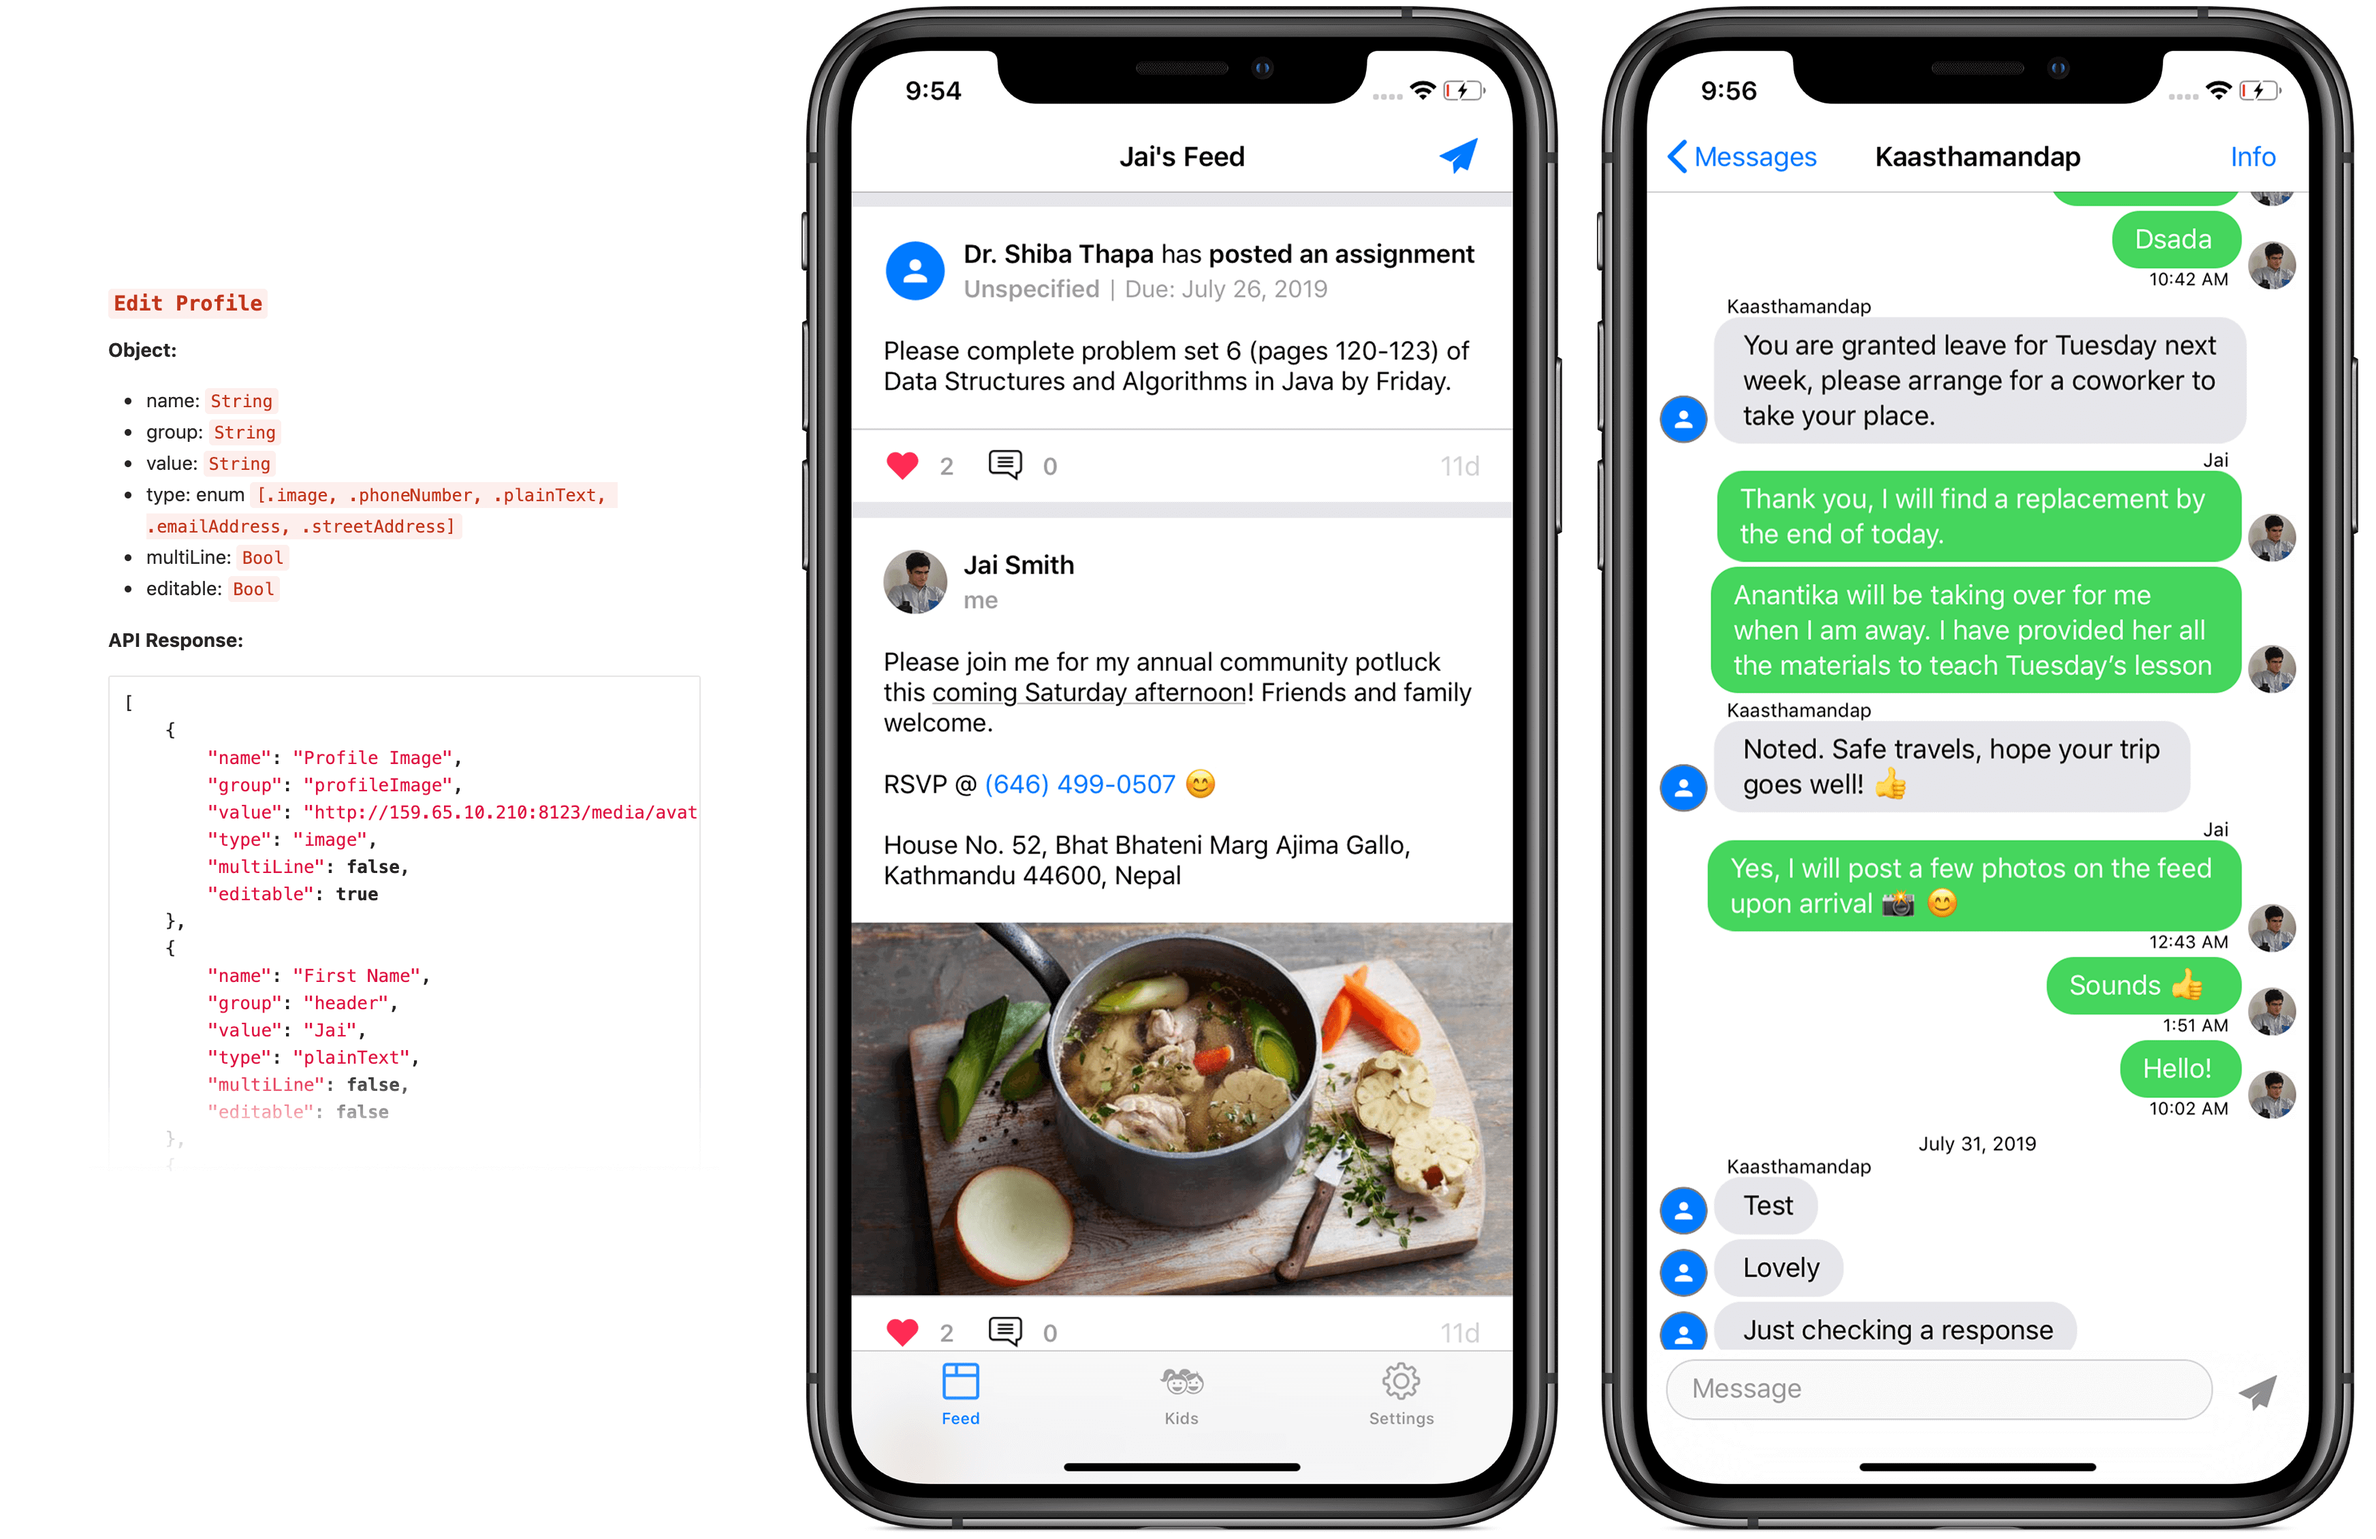
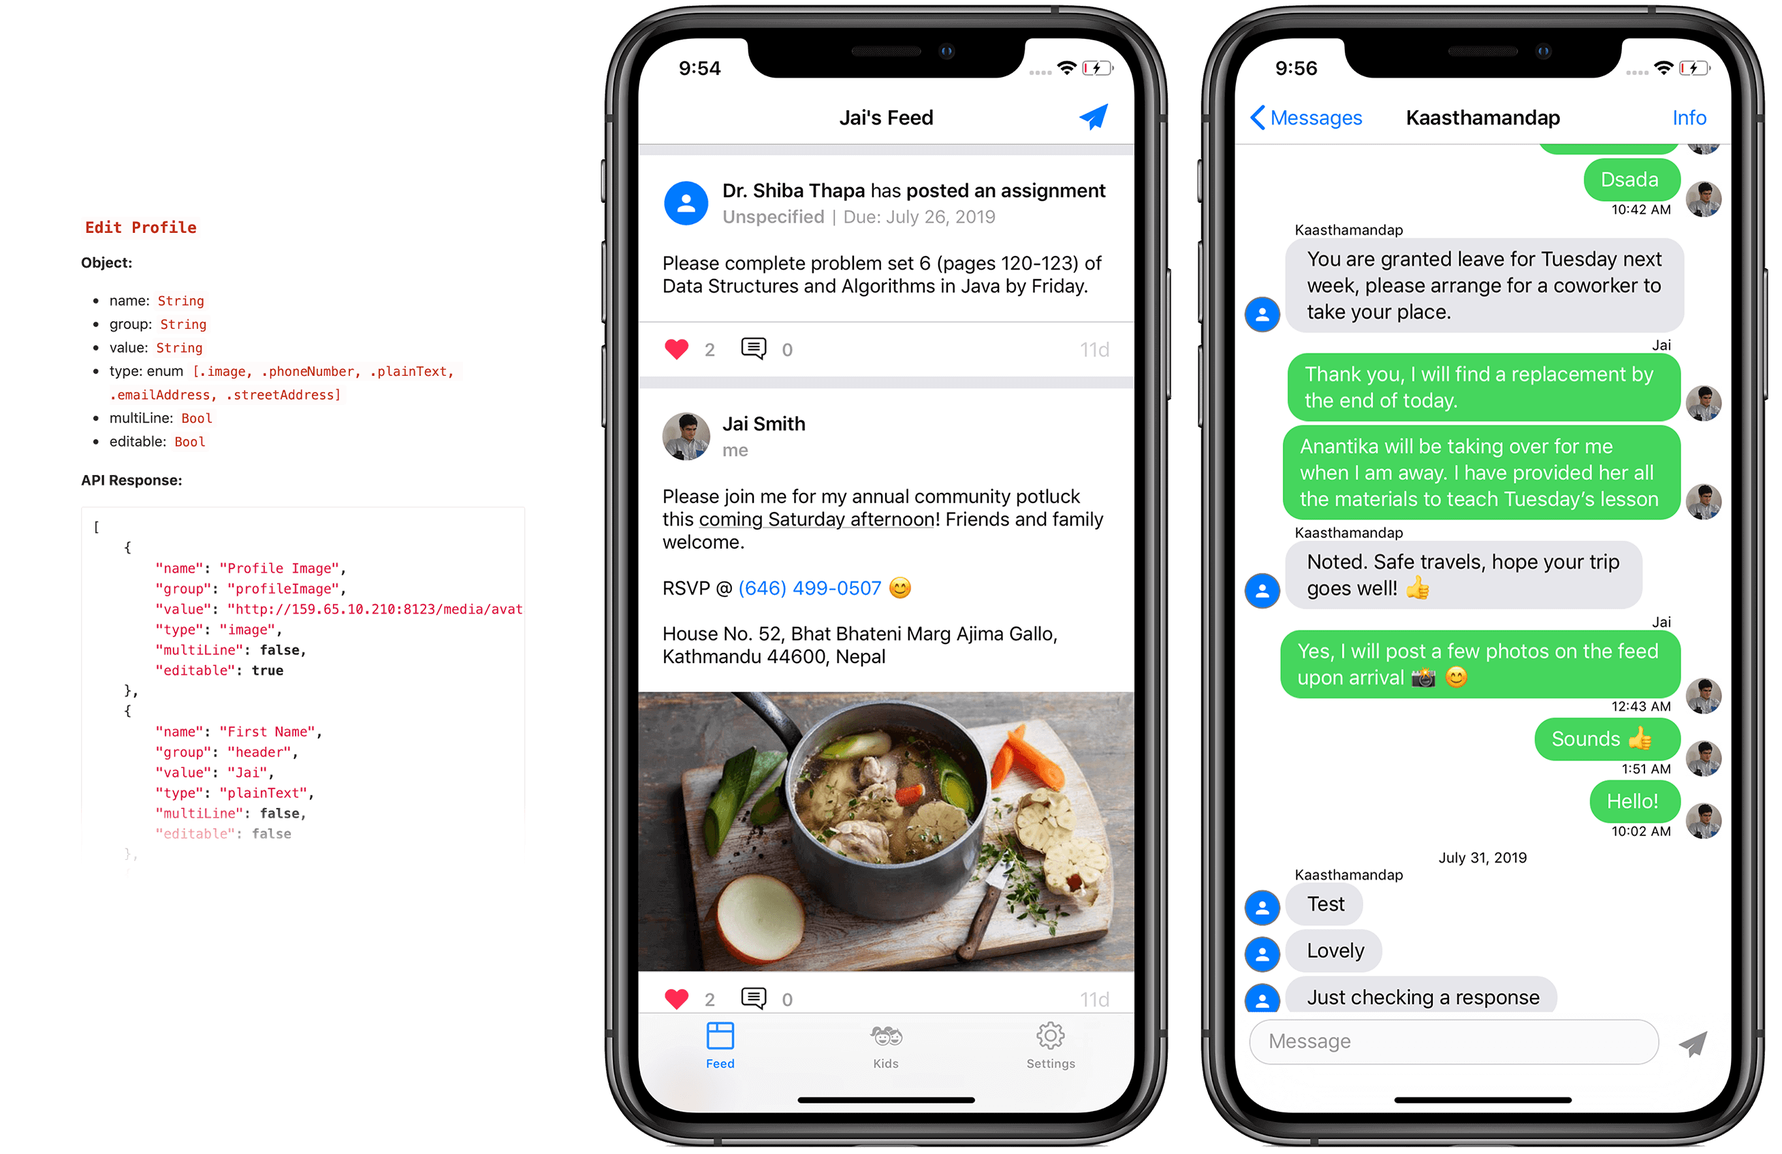
added give essential content, removed white background on kv media

diff --git a/src/App.js b/src/App.js
@@ -56,9 +56,10 @@ function App() {
             <div className="app-projects">
               <Project
                 name="Give Essential"
+                link="https://giveessential.org"
                 org="Give Essential"
                 date="Spring 2020 - Summer 2020"
-                blurb="This is a blurb"
+                blurb="An online peer-to-peer matching platform that connects essential workers to donors who have financial and household resources to share. Founded by a team of Dartmouth students during the COVID-19 pandemic, Give Essential has now facilitated over $1 million in in-kind donations from all 50 states, and includes over 200 volunteers. We aim to help over 50k families by the end of 2020."
                 img={{
                   src: genOptSrc('./media/giveessential-web'),
                   alt: 'Give Essential websites on Apple devices'

diff --git a/src/components/Project.jsx b/src/components/Project.jsx
@@ -11,7 +11,12 @@ const Project = (props) => (
   >
     <div className="project-title">
       <div className="project-title-main">
-        {props.name}
+        {props.link
+          ? (
+            <a href={props.link}>
+              {props.name}
+            </a>
+          ) : props.name}
       </div>
       <div className="project-title-sub">
         <b>{props.org}</b><br />
@@ -33,6 +38,7 @@ const Project = (props) => (
 
 Project.propTypes = {
   name: PropTypes.string,
+  link: PropTypes.string,
   org: PropTypes.string,
   date: PropTypes.string,
   blurb: PropTypes.string,
@@ -42,6 +48,7 @@ Project.propTypes = {
 
 Project.defaultProps = {
   name: 'Project Name',
+  link: null,
   org: 'Organization',
   date: 'Season Year',
   blurb: 'What is this?',

diff --git a/src/components/stylesheets/Project.scss b/src/components/stylesheets/Project.scss
@@ -35,6 +35,21 @@
 .project-title {
   display: flex;
   justify-content: space-between;
+
+  a {
+    text-decoration: none;
+    color: black;
+    border-bottom-width: 3px;
+    border-bottom-style: solid;
+    display: inline-block;
+    line-height: 0.95;
+    border-color: transparent;
+    transition: border-bottom-color 0.15s;
+
+    &:hover {
+      border-bottom-color: black;
+    }
+  }
 }
 
 .project-title-main {
